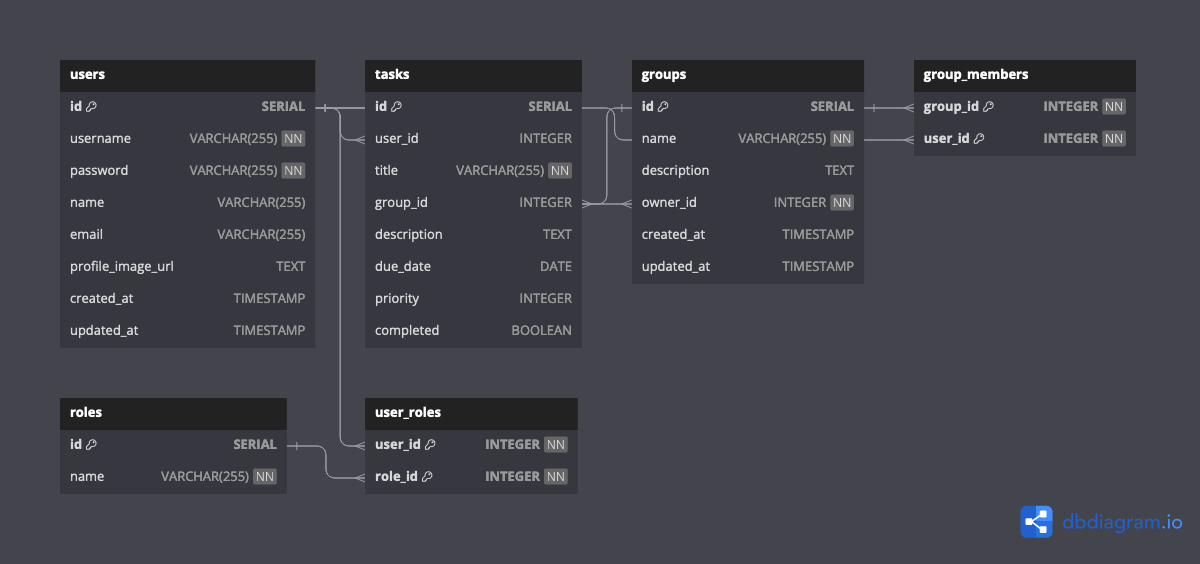
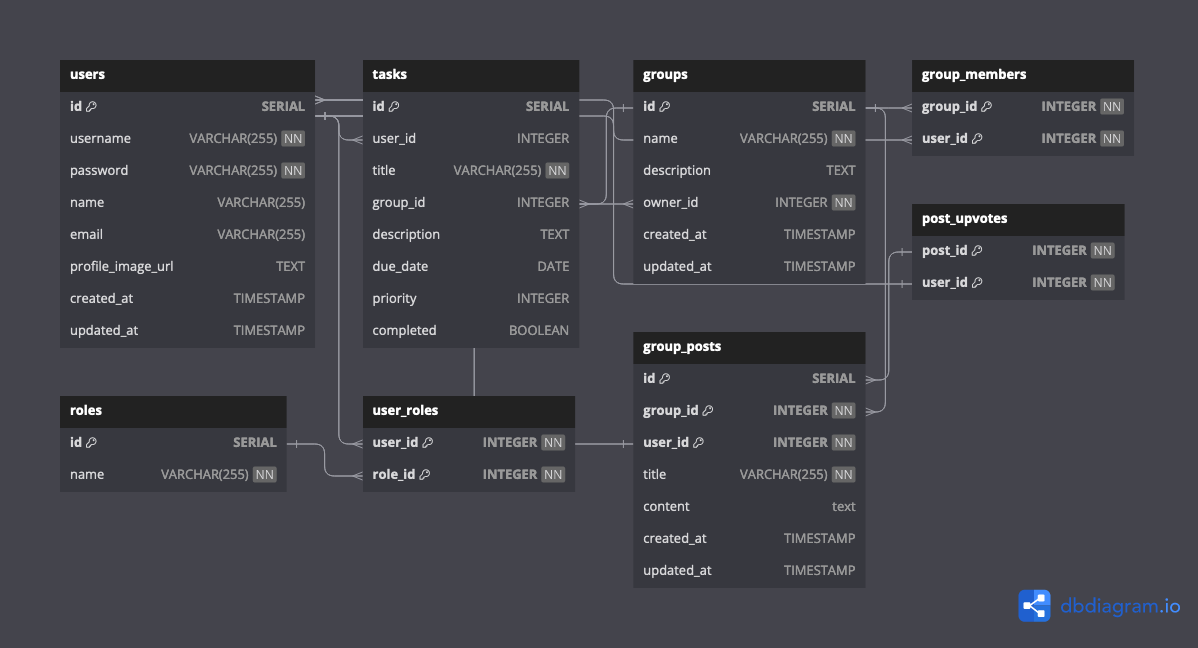
Agregado de posts en grupos

diff --git a/static/css/groups.css b/static/css/groups.css
@@ -584,3 +584,147 @@ a:hover {
     padding: 12px;
     border-radius: 10px
 }
+
+.posts {
+    display: flex;
+    flex-direction: column;
+    width: 100%;
+    gap: 24px;
+    align-items: center;
+    justify-content: center;
+
+}
+
+.posts #create-post-form {
+    display: flex;
+    flex-direction: column;
+    gap: 12px;
+    justify-content: flex-start;
+    align-items: flex-start;
+    width: auto;
+
+}
+
+.posts #create-post-form .posts-item-data {
+    display: flex;
+    flex-direction: column;
+    align-items: flex-start;
+    gap: 2px;
+}
+
+.posts-item-data label {
+    color: mediumpurple;
+    font-weight: 600;
+    margin: 0;
+}
+
+.posts-item-data input {
+    padding: 8px 15px;
+    border-radius: 5px;
+    border: 1px solid #ddd;
+    transition: all 0.3s ease;
+}
+
+.posts-item-data input:focus {
+    border: 1px solid mediumpurple;
+}
+
+.posts-item-data textarea {
+    padding: 8px 15px;
+    border-radius: 5px;
+    border: 1px solid #ddd;
+    transition: all 0.3s ease;
+}
+
+.posts-item-data textarea:focus {
+    border: 1px solid mediumpurple;
+}
+
+.posts-item-data button {
+    padding: 8px 15px;
+    border-radius: 5px;
+    background-color: mediumpurple;
+    color: white;
+    border: none;
+    cursor: pointer;
+    transition: background-color 0.3s ease;
+}
+
+.posts-item-data button:hover {
+    background-color: darken(mediumpurple, 10%);
+}
+
+.posts-list {
+    display: flex;
+    flex-direction: column;
+    gap: 18px;
+}
+
+.post-item {
+    display: flex;
+    flex-direction: column;
+    padding: 10px 10px;
+    border-radius: 8px;
+    background-color: #f5f5f5;
+    border-bottom: 1px solid #ddd;
+    gap: 5px;
+    box-shadow: 0 2px 4px rgba(0,0,0,0.1);
+}
+
+.post-item h3 {
+    color: mediumpurple;
+    margin: 0;
+}
+
+.post-item p {
+    color: #666;
+}
+
+.post-item .funcs {
+    display: flex;
+    flex-direction: row;
+    gap: 10px;
+    justify-content: flex-start;
+    align-items: flex-start;
+}
+
+.post-item .funcs .upvotes {
+    display: flex;
+    flex-direction: row;
+    gap: 5px;
+    justify-content: flex-start;
+    align-items: center;
+}
+
+.post-item .funcs .upvotes button {
+    padding: 8px 15px;
+    border-radius: 5px;
+    background-color: mediumpurple;
+    color: white;
+    border: none;
+    cursor: pointer;
+    transition: background-color 0.3s ease;
+}
+
+.post-item .funcs .upvotes button:hover {
+    background-color: darken(mediumpurple, 10%);
+}
+
+.post-item .funcs .upvotes button i {
+    color: white;
+}
+
+.post-item .funcs button.delete {
+    padding: 8px 15px;
+    border-radius: 5px;
+    background-color: #ff4d4d;
+    color: white;
+    border: none;
+    cursor: pointer;
+    transition: background-color 0.3s ease;
+}
+
+.post-item .funcs button.delete:hover {
+    background-color: #ff3333;
+}
+

diff --git a/templates/groups/group.html b/templates/groups/group.html
@@ -112,8 +112,65 @@
           {% endfor %}
         </ul>
       </div>
+      <!-- posts -->
+      <div class="posts">
+        <div class="top-card">
+          <h2>Publicaciones</h2>
+        </div>
+        <form action="" id="create-post-form">
+          <div class="posts-item-data">
+            <label for="title"> Titulo
+            </label>
+            <input
+              type="text"
+              id="post-title"
+              name="title"
+              placeholder="Titulo"
+              required
+            />
+          </div>
+          <div class="posts-item-data">
+            <label for="content"> Contenido
+            </label>
+            <textarea
+              id="post-content"
+              name="content"
+              placeholder="Contenido"
+              required
+            ></textarea>
+          </div>
+          <div class="posts-item-data">
+            <button id="create-post-btn" type="submit">Crear</button>
+          </div>
+        </form>
+        <div class="posts-list">
+          {% if posts == [] %}
+          <div class="post-item">
+            <h3>No hay publicaciones</h3>
+          </div>
+          {% endif %} {% for post in posts %}
+          <div class="post-item">
+            <h3>{{ post[3] }}</h3>
+            <p>{{ post[4] }}</p>
+            <div class="funcs">
+              <div class="upvotes">
+                <button onclick="upVotePost({{ post[0] }})">
+                  <i class="fas fa-thumbs-up"></i>
+                </button>
+                <p>{{ upvotes[loop.index0] }}</p>
+              </div>
+                <button class="delete" onclick="">
+                  <i class="fas fa-trash-alt"></i>
+                </button>
+            </div>
+          </div>
+          {% endfor %}
+      </div>
     </div>
   </div>
+</div>
+<div class="modal-posts">
+  <!-- create a post in this group -->
 </div>
 {% endblock %} {% block scripts %}
 <script src="{{ url_for('static', filename='js/groups/control_member.js') }}"></script>

diff --git a/static/js/groups/control_member.js b/static/js/groups/control_member.js
@@ -118,3 +118,31 @@ function deleteMemberFromGroup(memberId) {
             console.log(error);
         });
 }
+
+const formGroupPosts = document.getElementById('create-post-form');
+
+formGroupPosts.addEventListener('submit', function(e) {
+    e.preventDefault();
+    axios.post('/groups/' + GROUP_ID + '/posts', {
+        title: document.getElementById('post-title').value,
+        content: document.getElementById('post-content').value
+        })
+        .then(function (response) {
+            console.log(response);
+            window.location.reload();
+        })
+        .catch(function (error) {
+            console.log(error);
+        });
+})
+
+function upVotePost(postId) {
+    axios.post('/groups/posts/' + postId + '/upvote')
+        .then(function (response) {
+            console.log(response);
+            window.location.reload();
+        })
+        .catch(function (error) {
+            console.log(error);
+        });
+}

diff --git a/templates/errors/404.html b/templates/errors/404.html
@@ -1,0 +1,37 @@
+<div class="error">
+    <h1>404</h1>
+    <h2>Page not found</h2>
+    <p>Sorry, the page you are looking for does not exist.</p>
+    <a href="/">Go to the home page</a>
+</div>
+
+<style>
+    .error {
+        text-align: center;
+        margin-top: 100px;
+    }
+
+    .error h1 {
+        font-size: 100px;
+        color: #f44336;
+    }
+
+    .error h2 {
+        font-size: 50px;
+        color: #f44336;
+    }
+
+    .error p {
+        font-size: 20px;
+    }
+
+    .error a {
+        font-size: 20px;
+        color: #f44336;
+        text-decoration: none;
+    }
+
+    .error a:hover {
+        text-decoration: underline;
+    }
+</style>

diff --git a/app.py b/app.py
@@ -341,8 +341,16 @@ def group(group_id):
             user_tasks = []
             db.execute('SELECT * FROM tasks WHERE user_id = (SELECT id FROM users WHERE username = %s) AND group_id <> %s;', (format(session['username']), group_id))
             user_tasks = db.fetchall()
+            posts = []
+            db.execute('SELECT * FROM group_posts WHERE group_id = %s', (group_id,))
+            posts = db.fetchall()
+            upvotes = []
+            for post in posts:
+                db.execute('SELECT COUNT(*) FROM post_upvotes WHERE post_id = %s', (post[0],))
+                upvotes.append(db.fetchone()[0])
 
-        return render_template('groups/group.html', group=group, members=members, tasks=tasks, user_tasks=user_tasks)
+
+        return render_template('groups/group.html', group=group, members=members, tasks=tasks, user_tasks=user_tasks, posts=posts, upvotes=upvotes)
     else:
         return redirect('/errors/denied')
 
@@ -455,6 +463,54 @@ def profile(username):
     else:
         return redirect('/login')
 
+@app.route('/groups/<int:group_id>/posts', methods=['POST'])
+def add_post(group_id):
+    data = request.json
+
+    if 'username' not in session:
+        return jsonify({'message': 'User not logged in'}, 401)
+
+    try:
+        with get_db() as db:
+            db.execute(
+                '''
+                INSERT INTO group_posts (group_id, user_id, title, content, created_at, updated_at)
+                VALUES (%s, (SELECT id FROM users WHERE username = %s), %s, %s, CURRENT_TIMESTAMP, CURRENT_TIMESTAMP)
+                ''', (group_id, session['username'], data['title'], data['content'])
+            )
+            # insert into post_votes
+            db.execute(
+                '''
+                INSERT INTO post_upvotes (post_id, user_id)
+                VALUES ((SELECT id FROM group_posts WHERE title = %s), (SELECT id FROM users WHERE username = %s))
+                ''', (data['title'], session['username'])
+            )
+        return jsonify({'message': 'Post added'}, 200)
+    except Exception as e:
+        print(e)
+        return jsonify({'message': 'Error adding post'}, 500)
+
+@app.route('/groups/posts/<int:post_id>/upvote', methods=['POST'])
+def upvote_post(post_id):
+    if 'username' not in session:
+        return jsonify({'message': 'User not logged in'}, 401)
+
+    try:
+        with get_db() as db:
+            db.execute(
+                '''
+                INSERT INTO post_upvotes (post_id, user_id)
+                VALUES (%s, (SELECT id FROM users WHERE username = %s))
+                ''', (post_id, session['username'])
+            )
+        return jsonify({'message': 'Post upvoted'}, 200)
+    except Exception as e:
+        print(e)
+        return jsonify({'message': 'Error upvoting post'}, 500)
+
+@app.errorhandler(404)
+def page_not_found(e):
+    return render_template('errors/404.html', title='Página no encontrada'), 404
 
 if __name__ == '__main__':
     app.run(debug=True, port=8001)
